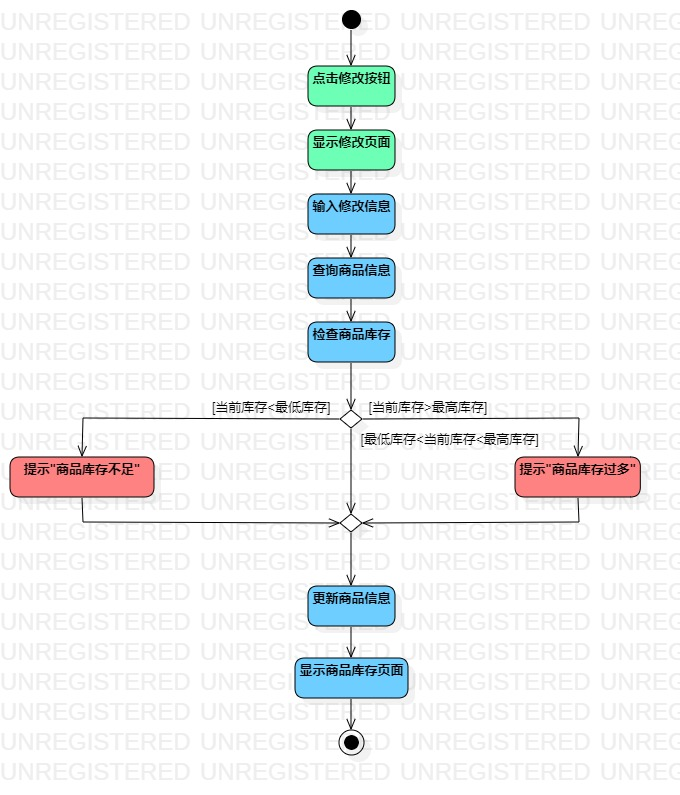
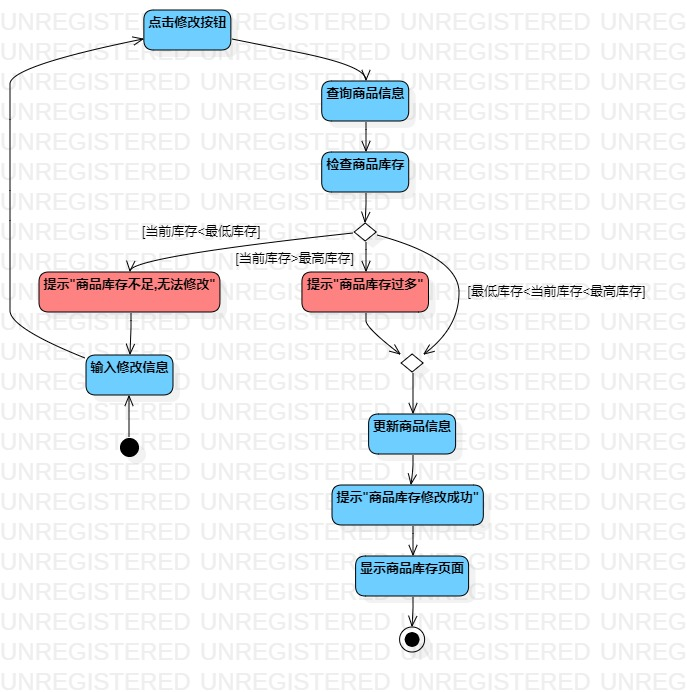
#3 #140 实验三修改

Changed region(s): [[0.0, 0.0, 0.9574, 0.9711], [0.1853, 0.0, 0.3397, 0.091], [0.0618, 0.4855, 0.0926, 0.5159]]

diff --git a/students/1707080714328/lab2.md b/students/1707080714328/lab2.md
@@ -1,3 +1,11 @@
+<!--
+ * @Author: your name
+ * @Date: 2020-03-07 16:21:55
+ * @LastEditTime: 2020-03-26 17:47:12
+ * @LastEditors: Please set LastEditors
+ * @Description: In User Settings Edit
+ * @FilePath: \undefinedf:\github\uml-modeling-2020\students\1707080714328\lab2.md
+ -->
 # 实验二：用例建模
 
 ## 1. 实验目标
@@ -38,15 +46,16 @@
 用例编号  | UC01 | 增加商品  
 -|:-|-  
 用例名称  | 增加商品  |   
-前置条件  | 管理者进入库存管理系统     |  
+前置条件  | 1.管理者进入库存管理系统;     |
+~| 2. 管理者点击增加商品按钮,进入增加商品页面.  |    
 后置条件  |      |   
-基本流程  | 1. 管理者点击增加商品按钮；  |  
-~| 2. 系统显示增加页面；  |   
-~| 3. 管理者输入商品详细信息，点击完成按钮；   |   
-~| 4. 系统查询商品信息，检查**未存在相同商品名称且商品名称不为空**，保存商品信息；   |   
-~| 5. 系统显示商品页面。   |  
-扩展流程  | 4.1 系统检查商品名称为空，**提示“商品名称不能为空”**；  |    
-~| 4.2 系统检查商品名称已经存在，**提示“此商品已存在”**。 |  
+基本流程  | 1. 管理者输入商品详细信息，点击增加按钮；  |  
+~| 2. 系统检查**商品名称是否为空**；  | 
+~| 3. 系统查询商品信息，检查**商品是否存在**，保存商品信息；   |
+~| 4. 提示**提示"商品增加成功"**；   |  
+~| 5. 系统显示商品页面.   |   
+扩展流程  | 2.1 系统检查商品名称为空，**提示“商品名称不能为空”**,返回增加商品页面.  |    
+~| 3.1 系统检查商品已存在，**提示“此商品已存在”**,显示此商品页面. |  
 
 
 ## 表2：修改库存用例规约  
@@ -54,15 +63,15 @@
 用例编号  | UC02 | 修改库存  
 -|:-|-  
 用例名称  | 修改库存  |   
-前置条件  | 用户进入库存管理系统     |  
+前置条件  | 1.用户进入库存管理系统;     |
+~| 2. 用户点击修改库存按钮,进入修改库存页面.  | 
 后置条件  |      |    
-基本流程  | 1. 用户点击修改库存按钮；  |
-~| 2. 系统显示修改页面；  |   
-~| 3. 用户修改库存，点击完成按钮；   |   
-~| 4. 系统查询商品信息，**检查商品库存**，更新菜品信息；  |   
-~| 5.系统显示商品库存页面。   |  
-扩展流程  | 4.1 系统检查商品库存小于最低库存，**提示“商品库存不足”**；  |   
-~| 4.2 系统检查商品库存大于最高库存，**提示“商品库存过多”**。 |  
+基本流程  | 1. 用户输入修改信息，点击修改按钮；  |
+~| 2. 系统查询商品信息，**检查商品库存**，更新商品信息；  |
+~| 3. 系统**提示"商品库存修改成功"**；  |      
+~| 4. 系统显示商品库存页面.   |    
+扩展流程  | 2.1 系统检查商品当前库存小于最低库存，**提示“商品库存不足,无法修改”**,返回修改库存页面； |   
+~| 2.2 系统检查商品当前库存大于最高库存，**提示“商品库存过多”**. |  
 
 
 ## 表3：查询库存用例规约  
@@ -70,11 +79,12 @@
 用例编号  | UC03 | 查询库存  
 -|:-|-  
 用例名称  | 查询库存    |   
-前置条件  | 用户进入库存管理系统     |  
+前置条件  | 1.用户进入库存管理系统;     |
+~| 2. 用户点击查询库存按钮,进入查询库存页面.  | 
 后置条件  |      |    
-基本流程  | 1. 用户点击查询库存按钮；  |
-~| 2.系统显示查询页面；  |   
-~| 3.用户输入商品名称，点击完成按钮；   |   
-~| 4.系统检查**商品名称不为空**，查询商品信息；  |   
-~| 5.系统显示商品信息页面。   |  
-扩展流程  | 4.1 系统检查商品名称为空，**提示“商品名称不能为空”**。  | 
+基本流程  | 1. 用户输入商品名称，点击查询按钮；  |
+~| 2.系统检查**商品名称是否为空**；  |
+~| 3.系统查询商品信息，检查**商品是否存在**；  |      
+~| 4.系统显示商品信息页面.   |   
+扩展流程  | 2.1 系统检查商品名称为空，**提示“商品名称不能为空”**,返回查询库存页面.  |
+~| 3.1 系统检查商品不存在，**提示“此商品不存在”**,返回查询库存页面. |   
